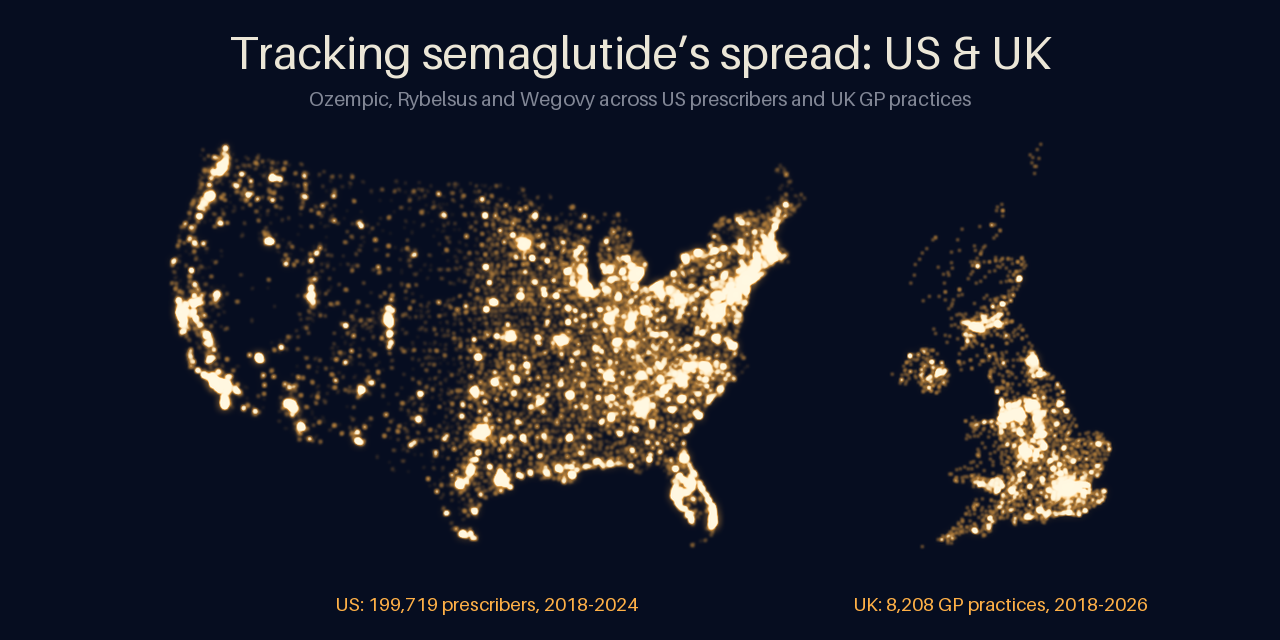
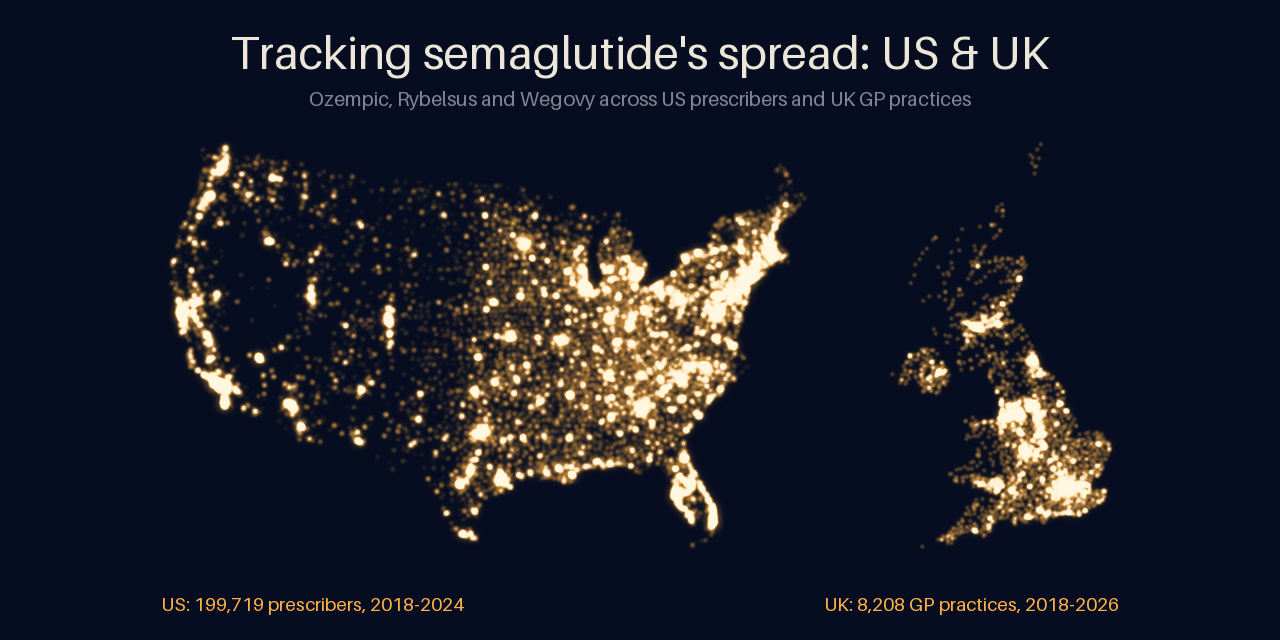
Balance the social preview and use a straight apostrophe
The maps were already centred, but the UK label is wider than its map, so the
right side looked fuller. Labels now sit under each map's outer edge, so the
margins match for the labels as well as the maps.

Changed region(s): [[0.1875, 0.0625, 0.8125, 0.125], [0.125, 0.9375, 0.5, 0.9688], [0.6562, 0.9375, 0.9062, 0.9688]]

diff --git a/src/semaglutide_spread/viz/social_preview.py b/src/semaglutide_spread/viz/social_preview.py
@@ -9,7 +9,7 @@ doubles as the portfolio thumbnail.
 2. Crop each map to its lights (the projection box has empty sea and land around the
    country), then scale both to the same height.
 3. Lay them out on GitHub's recommended 1280 x 640 canvas, under the title, with each map's
-   count of adopters beneath it.
+   count of adopters beneath it, aligned to the map's outer edge.
 
 Inputs:  data/warehouse.duckdb (the night-lights tables)
 Output:  docs/images/social_preview.png (set it in GitHub: Settings > General > Social preview)
@@ -37,7 +37,7 @@ log = logging.getLogger(__name__)
 
 SIZE = (1280, 640)  # GitHub's recommended social preview size
 MAP_HEIGHT = 420
-TITLE = "Tracking semaglutide\N{RIGHT SINGLE QUOTATION MARK}s spread: US & UK"
+TITLE = "Tracking semaglutide's spread: US & UK"
 SUBTITLE = "Ozempic, Rybelsus and Wegovy across US prescribers and UK GP practices"
 
 
@@ -67,6 +67,14 @@ def fit_height(image: Image.Image, height: int) -> Image.Image:
     return image.resize((width, height), Image.Resampling.LANCZOS)
 
 
+def label(country: nl.Country, data: nl.MapData) -> str:
+    """E.g. "US: 199,719 prescribers, 2018-2024"."""
+    first = data.first_period // country.periods_per_year
+    last = data.last_period // country.periods_per_year
+    adopters = len(data.adopter_time)
+    return f"{country.code.upper()}: {adopters:,} {country.unit}, {first}-{last}"
+
+
 def render(con: duckdb.DuckDBPyConnection, out_dir: Path = nl.IMAGES_DIR) -> Path:
     us, us_data = final_frame(con, nl.US, 880, nl.US.light_gain * (nl.US.map_width / 880) ** 2)
     uk, uk_data = final_frame(
@@ -75,26 +83,25 @@ def render(con: duckdb.DuckDBPyConnection, out_dir: Path = nl.IMAGES_DIR) -> Pat
     us, uk = (fit_height(crop_to_lights(m), MAP_HEIGHT) for m in (us, uk))
 
     width, height = SIZE
-    canvas = Image.new("RGB", SIZE, tuple(int(v) for v in nl.BACKGROUND))
+    label_font = nl.font(19)
+    labels = [label(country, data) for country, data in ((nl.US, us_data), (nl.UK, uk_data))]
+
+    # Centre the two maps, 70 pixels apart, on the canvas. Each label sits under the outer edge
+    # of its map (the US label from the US map's left edge, the UK label to the UK map's right
+    # edge), so the left and right margins match for the labels as well as the maps.
     between = 70
     us_left = (width - us.size[0] - uk.size[0] - between) // 2
     uk_left = us_left + us.size[0] + between
-    top = 135
-    canvas.paste(us, (us_left, top))
-    canvas.paste(uk, (uk_left, top))
 
+    canvas = Image.new("RGB", SIZE, tuple(int(v) for v in nl.BACKGROUND))
     draw = ImageDraw.Draw(canvas)
     draw.text((width // 2, 52), TITLE, font=nl.font(46), fill=nl.TEXT, anchor="mm")
     draw.text((width // 2, 98), SUBTITLE, font=nl.font(20), fill=nl.SUBTLE, anchor="mm")
-    labels = [
-        (us_left + us.size[0] // 2, nl.US, us_data, len(us_data.adopter_time)),
-        (uk_left + uk.size[0] // 2, nl.UK, uk_data, len(uk_data.adopter_time)),
-    ]
-    for centre, country, data, adopters in labels:
-        first = data.first_period // country.periods_per_year
-        last = data.last_period // country.periods_per_year
-        text = f"{country.code.upper()}: {adopters:,} {country.unit}, {first}-{last}"
-        draw.text((centre, height - 36), text, font=nl.font(19), fill=nl.WARM_TEXT, anchor="mm")
+    canvas.paste(us, (us_left, 135))
+    canvas.paste(uk, (uk_left, 135))
+    y = height - 36
+    draw.text((us_left, y), labels[0], font=label_font, fill=nl.WARM_TEXT, anchor="lm")
+    draw.text((uk_left + uk.size[0], y), labels[1], font=label_font, fill=nl.WARM_TEXT, anchor="rm")
 
     out_dir.mkdir(parents=True, exist_ok=True)
     path = out_dir / "social_preview.png"
